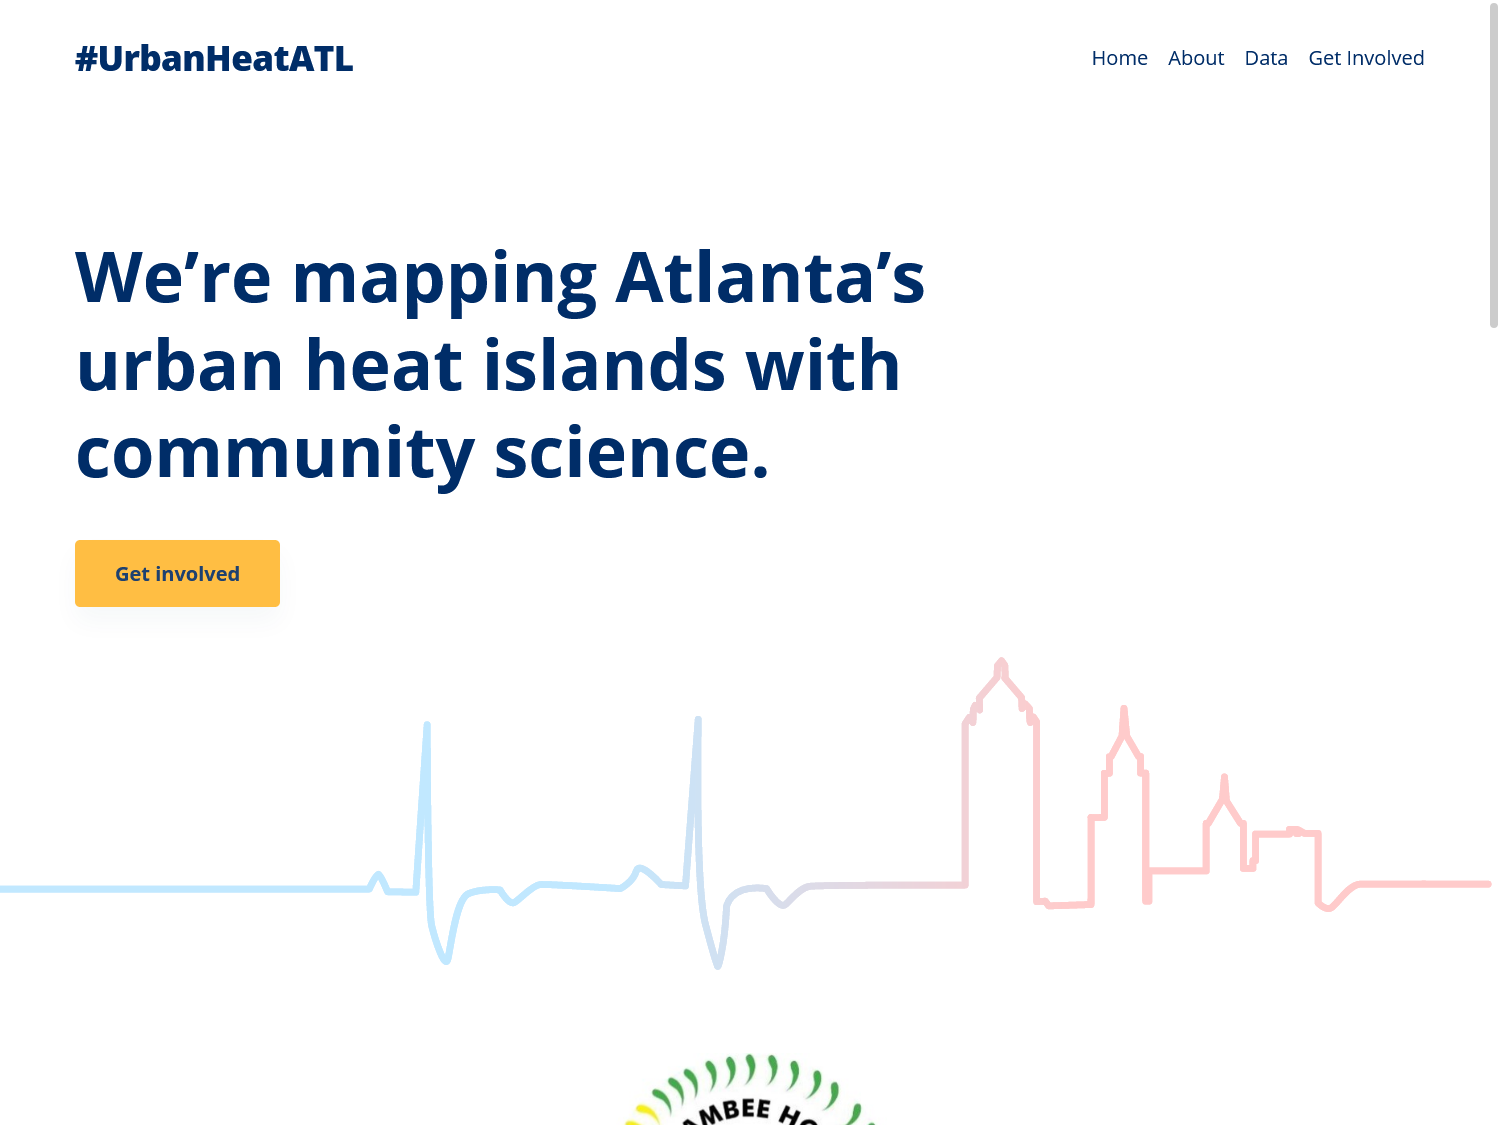
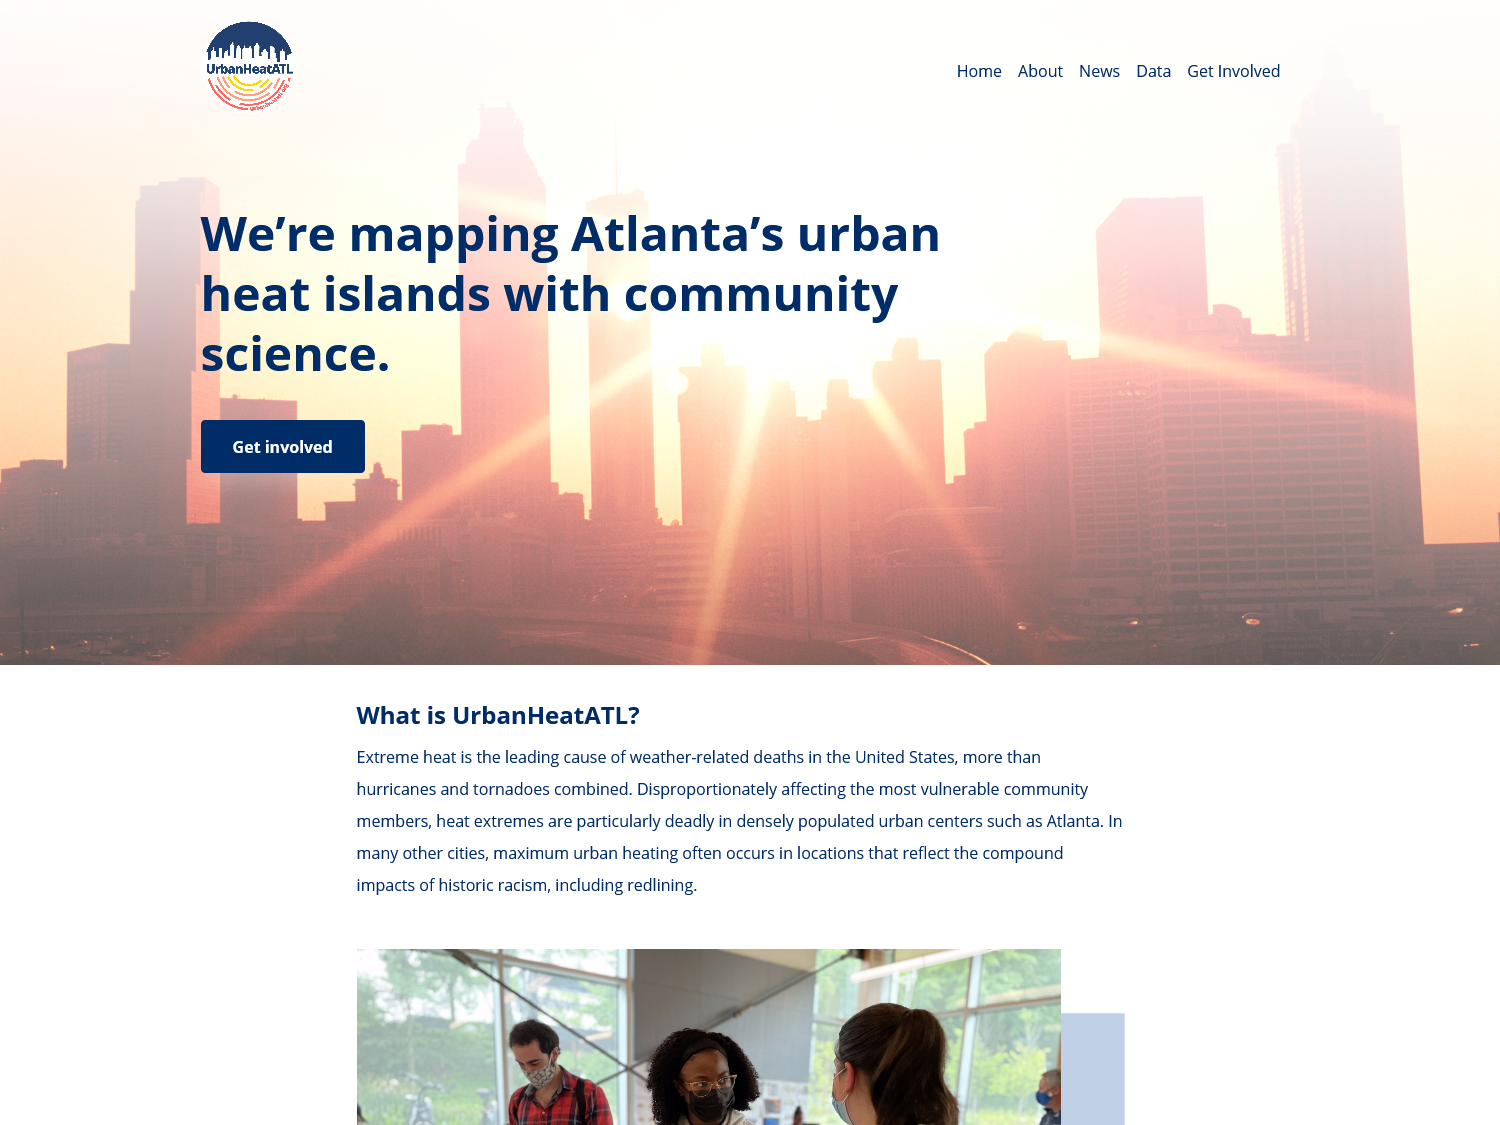
Some elementor updates

diff --git a/css/superelementor.css b/css/superelementor.css
@@ -1,6 +1,6 @@
 body.elementor-page .blocks > * {
   padding: 0;
-  margin: 0;
+  margin: 0 auto;
 }
 
 .elementor p {
@@ -23,6 +23,7 @@ body.elementor-page .blocks > * {
 .elementor .elementor-section .elementor-heading-title {
   font-family: 'Open Sans', Helvetica, sans-serif !important;
   line-height: 1.6;
+  font-size: 1.25rem;
 }
 
 .elementor .elementor-section .elementor-heading-title h2 {
@@ -98,6 +99,42 @@ body.elementor-page .blocks > * {
 .page-news .elementor-column.elementor-col-33:nth-last-child(1) {
   margin-right: 0;
 }
+
+.elementor-section.logos .elementor-container {
+  border: 2px solid red;
+  display: flex;
+  flex-wrap: wrap;
+  align-content: stretch;
+}
+.elementor-section.logos .elementor-container > * {
+  flex: 33%;
+}
+.elementor-section.logos .elementor-widget,
+.elementor-section.logos .elementor-widget-container {
+  height: 100%;
+}
+.elementor-section.logos .elementor-widget {
+  padding: 1rem;
+}
+.elementor-section.logos .elementor-widget-container a {
+  height: 100%;
+  display: flex;
+  flex-direction: column;
+  justify-content: center;
+}
+.elementor-section.logos .elementor-widget-container a:hover img {
+  opacity: 1;
+  filter: grayscale(0);
+}
+.elementor-section.logos .elementor-widget-container a img {
+  max-height: 8rem;
+  object-fit: contain;
+  opacity: 0.5;
+  filter: grayscale(1);
+  transition: 0.5s opacity, 0.5s filter;
+}
+
+
 @media screen and (max-width: 48rem) {
   .page-news .elementor-section .elementor-container {
     flex-direction: column;

diff --git a/css/header.css b/css/header.css
@@ -42,6 +42,11 @@ a.skip-link:focus {
 
 .header .site-title a {
   display: block;
+  font-weight: 800;
+  letter-spacing: -0.5px;
+  font-size: 1.75rem;
+  line-height: 1;
+  margin: 1rem 0;
 }
 .header .site-title a:hover {
   border-bottom: none;
@@ -67,7 +72,24 @@ a.skip-link:focus {
 .header nav ul li a {
   font-weight: 400;
 }
-
+.home .header a,
+.home .header .hamburger {
+  color: white;
+}
+.home .header .hamburger svg {
+  fill: white;
+}
+.home .header nav ul li a {
+  color: white;
+}
+.home .header a:hover,
+.home .header .hamburger:hover {
+  border-color: white;
+}
+.home .header a:focus,
+.home .header .hamburger:focus {
+  outline-color: white;
+}
 .header .hamburger {
   background: none;
   border: none;
@@ -77,7 +99,7 @@ a.skip-link:focus {
 }
 .header .dark-overlay {
   opacity: 0;
-  background: white;
+  background: black;
   top: 0;
   bottom: 0;
   left: 0;
@@ -113,6 +135,12 @@ a.skip-link:focus {
   .header .hamburger .burger-text {
     margin-left: 0.25rem;
     font-weight: 700;
+  }
+  .header .hamburger {
+    color: white;
+  }
+  .header .hamburger svg {
+    fill: white;
   }
   .header nav {
     position: absolute;
@@ -159,7 +187,7 @@ a.skip-link:focus {
   }
 
   .header.open .dark-overlay {
-    opacity: 0.85;
+    opacity: 0.7;
     pointer-events: auto;
     position: fixed;
   }

diff --git a/css/home.css b/css/home.css
@@ -4,15 +4,12 @@
   /* position: relative; */
 }
 .hero-bg {
-  background: url('../img/hot3.jpg');
-  background-size: cover;
-  background-position: center;
   width: 100%;
   position: absolute;
   top: 0;
   bottom: 0;
   z-index: -1;
-  opacity: 0.7;
+  opacity: 1;
 }
 .hero.front-hero {
   display: flex;
@@ -32,16 +29,14 @@
   line-height: 1.25;
   max-width: 75%;
   margin-bottom: 3rem;
+  color: white;
 }
 
 .hero .call-to-action {
-  background-color: #002d68;
-  color: #fff;
-  box-shadow: 0 12px 20px 0 rgba(255, 255, 255, 0.2);
+  color: black;
 }
-.hero .call-to-action:hover {
-  background-color: #000;
-  box-shadow: 0 4px 8px 0 #1e427044;
+.hero .call-to-action:focus {
+  outline-color: white;
 }
 .hero.front-hero,
 .hero .hero-bg,

diff --git a/css/footer.css b/css/footer.css
@@ -28,7 +28,7 @@
   color: white;
 	box-sizing: border-box;
 }
-.footer .site-title {
+.footer .site-title a {
   font-size: 1.5rem;
   font-weight: 800;
   letter-spacing: -0.5px;

diff --git a/front-page.php b/front-page.php
@@ -3,8 +3,11 @@
 <main id="content">
   <h1 class="visually-hidden">Urban Heat ATL Home Page</h1>
   <section class="hero front-hero">
-    <div class="hero-bg">
-    </div>
+    <img 
+      class="hero-bg" 
+      src="<?php echo get_template_directory_uri() . '/img/atl-edited.jpg' ?>" 
+      alt="A photograph of Jesse Hill Jr. Street in Atlanta, Georgia. Across the street, a mural of the late John Lewis towers. On the street below, a poster reads &ldquo;Honor the vote&rdquo; in bold letters."
+    >
 
     <div class="contained">
       <div class="hero-text">

diff --git a/header.php b/header.php
@@ -22,8 +22,7 @@
     <div class="contained">
       <div class="site-title">
         <a href="/" class="site-title-link">
-          <?php $logo_src = get_template_directory_uri() . "/img/logo.png"; ?>
-          <img src="<?php echo esc_url( $logo_src ); ?>" alt="Urban Heat ATL" class="site-title-logo">
+          <span aria-hidden="true">#</span>UrbanHeatATL
         </a>
       </div>
 
